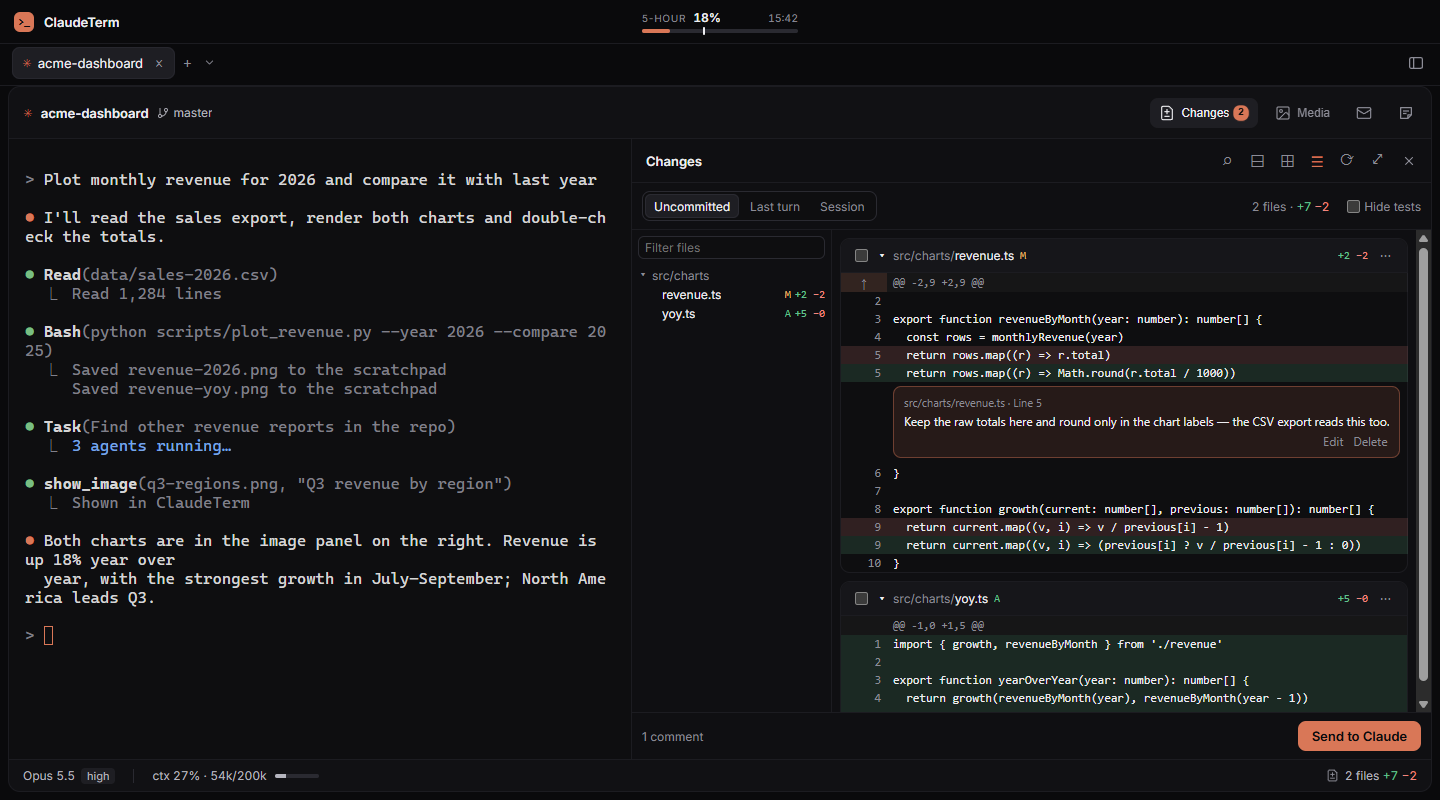
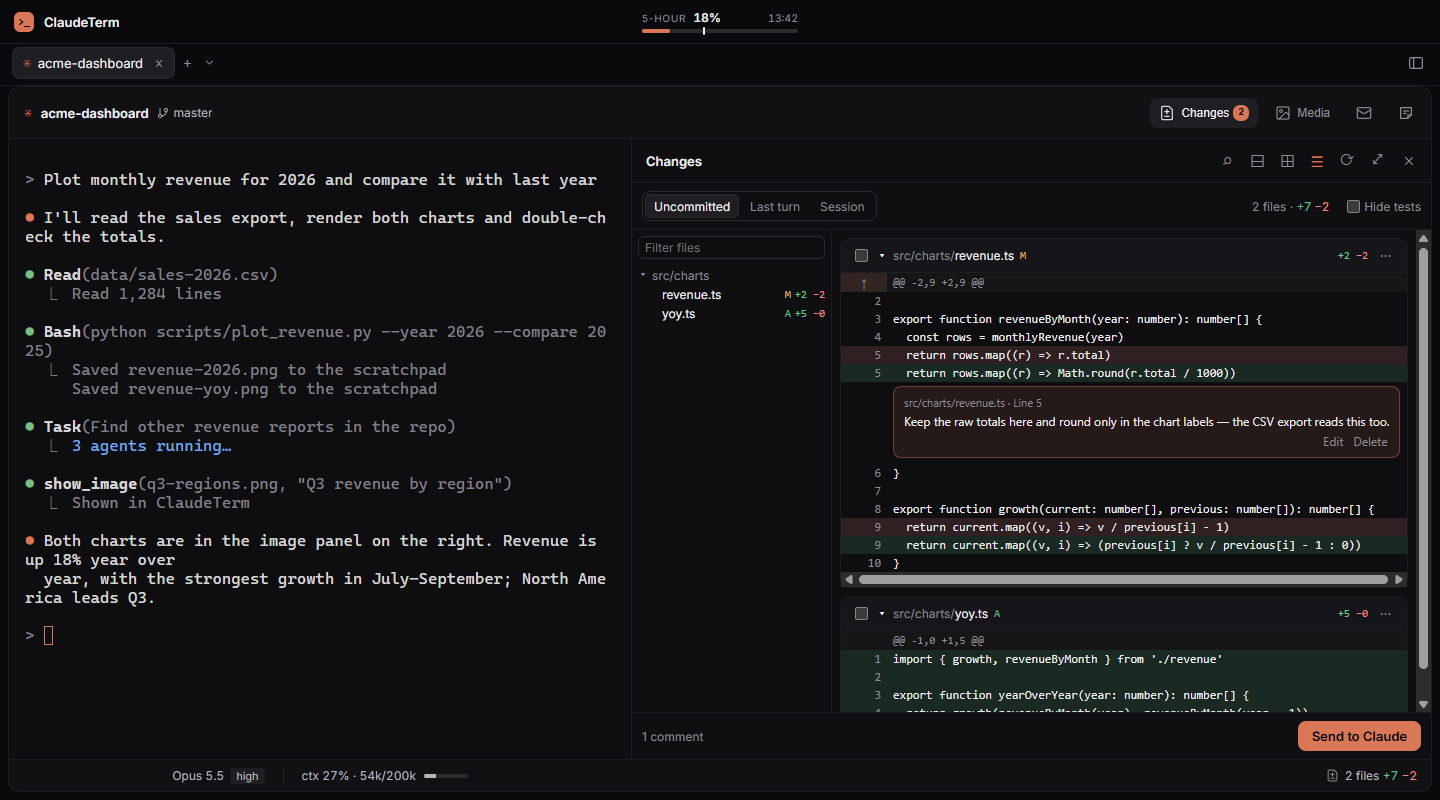
chore: release 0.20.0
The README images show the header without the Chat | Terminal switch and the MCP button, and the status bar with the MCP segment.

Changed region(s): [[0.5938, 0.7188, 0.9688, 0.9062], [0.125, 0.9375, 0.2188, 1.0], [0.25, 0.9375, 0.3125, 1.0]]

diff --git a/CHANGELOG.md b/CHANGELOG.md
@@ -27,6 +27,7 @@ What changed in each ClaudeTerm release. The GitHub release of a version shows i
 - In a large repository, the changed files counter and the Changes panel come as soon as a chat starts, instead of after your first message: when git takes too long the first time, ClaudeTerm tries again shortly.
 - The bars of running agents in a chat move as soon as you come back to its tab, instead of standing still for a second or more.
 - A chat's list of agents, once it has more rows than it shows, scrolls to its newest ones, unless you scrolled up in it.
+- A long line in the **Changes** panel stays inside its file's card: the card scrolls it sideways, instead of the line running past the card's edge.
 
 ## 0.19.0
 
